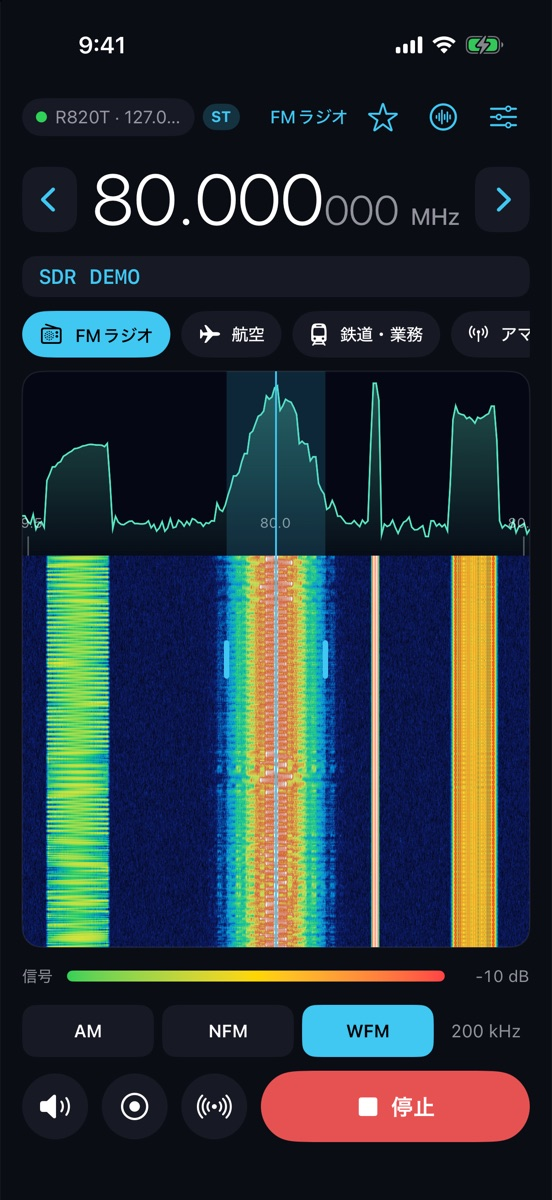
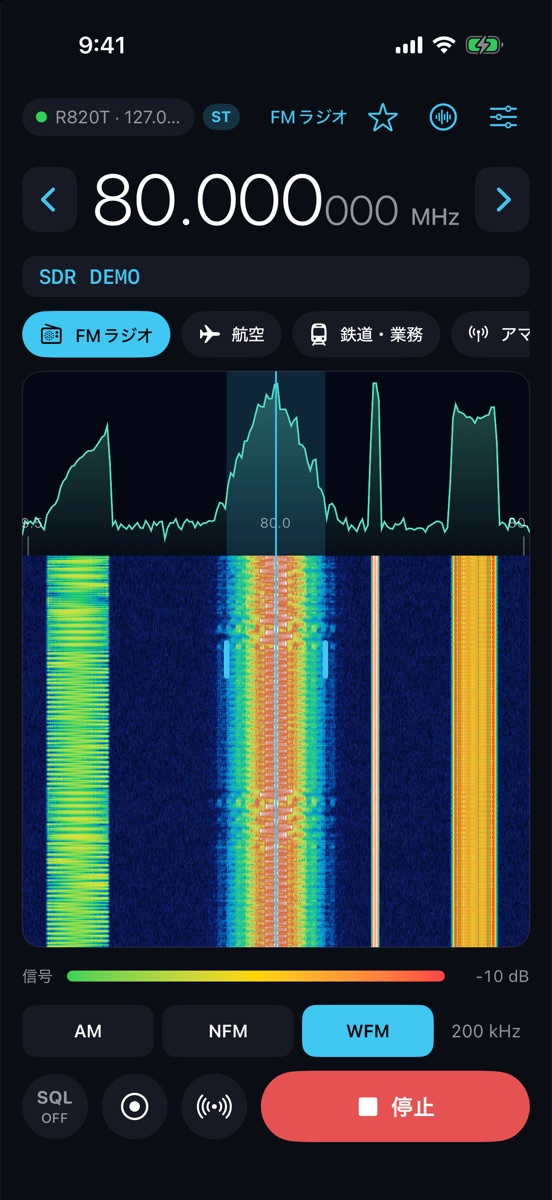
Update screenshots (squelch button, full-height scan sheet)

diff --git a/index.html b/index.html
@@ -101,6 +101,7 @@
           <ul>
             <li>用途を選ぶだけの「シンプル」表示</li>
             <li>最大 4 つの VFO を同時に監視</li>
+            <li>スケルチは画面下のボタンですぐ切り替え</li>
             <li>ノイズ低減、オートノッチ</li>
             <li>過入力を検知してゲインを自動で調整</li>
             <li>他のアプリを使っていても受信を継続</li>
@@ -122,7 +123,7 @@
           <figure><div class="phone"><img src="assets/shot-fm.jpg" alt="FM 放送を受信中の画面" loading="lazy" width="600" height="1305"></div><figcaption>FM 放送をステレオで</figcaption></figure>
           <figure><div class="phone"><img src="assets/shot-vfo.jpg" alt="2 つの VFO で別々の局を監視している画面" loading="lazy" width="600" height="1305"></div><figcaption>2 局を同時に監視</figcaption></figure>
           <figure><div class="phone"><img src="assets/shot-scan.jpg" alt="範囲スキャンの設定画面" loading="lazy" width="600" height="1305"></div><figcaption>範囲を決めてスキャン</figcaption></figure>
-          <figure><div class="phone"><img src="assets/shot-settings.jpg" alt="シンプル表示とアドバンスド表示を切り替える設定画面" loading="lazy" width="600" height="1305"></div><figcaption>表示の切り替え</figcaption></figure>
+          <figure><div class="phone"><img src="assets/shot-squelch.jpg" alt="スケルチのしきい値を調整する画面" loading="lazy" width="600" height="1305"></div><figcaption>スケルチの調整</figcaption></figure>
         </div>
       </div>
     </section>
